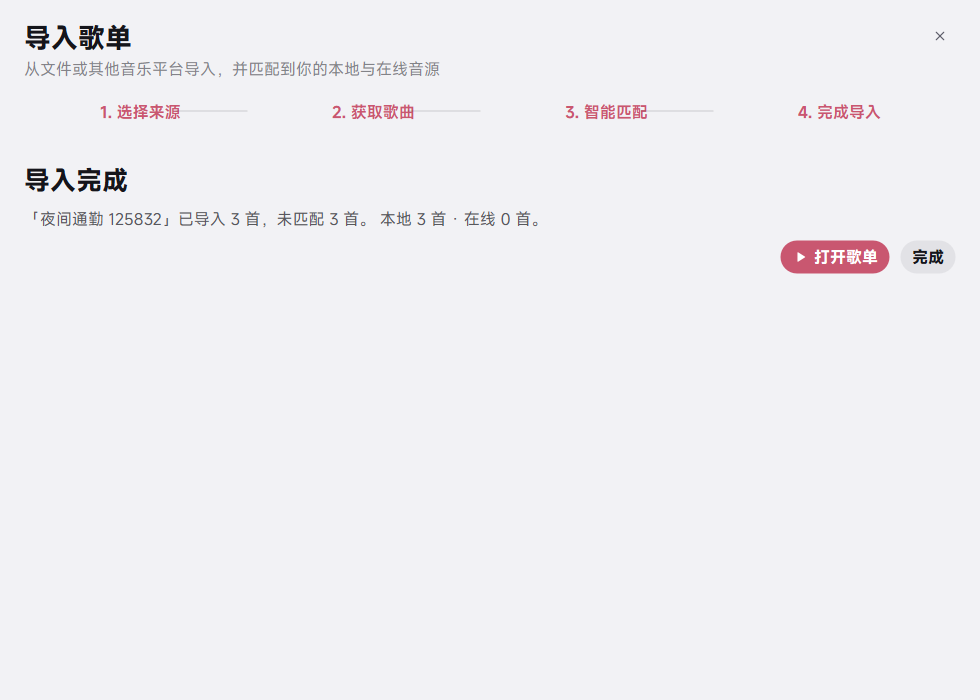
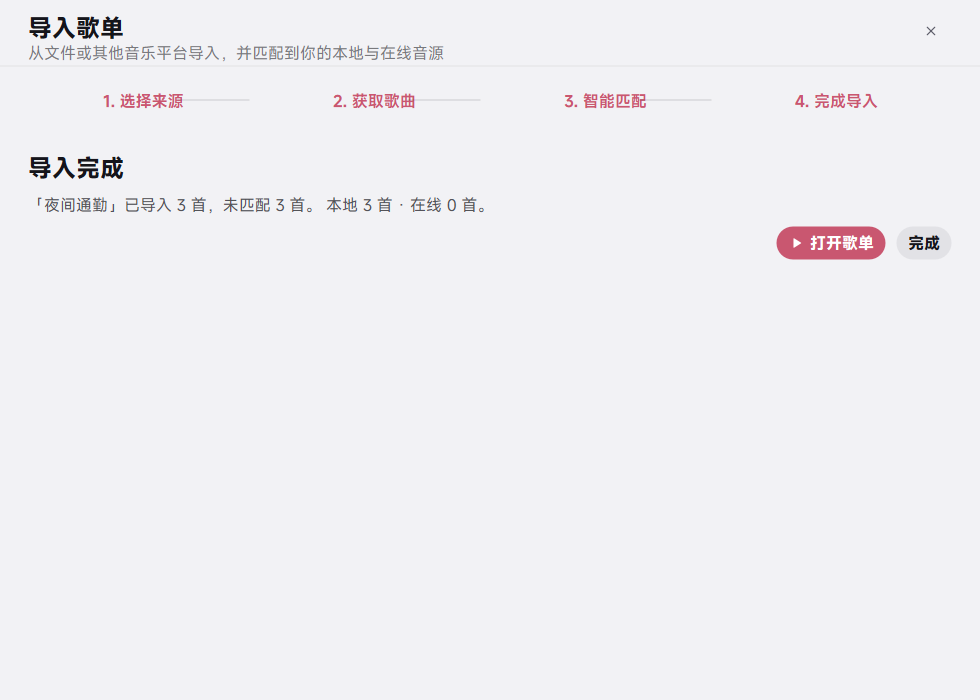
feat(1.2.7): 导入歌单对话框无边框自绘标题栏与统一字阶

diff --git a/hushplayer/ui/playlist_import_dialog.py b/hushplayer/ui/playlist_import_dialog.py
@@ -11,8 +11,8 @@ import time
 
 from pathlib import Path
 
-from PySide6.QtCore import QAbstractTableModel, QModelIndex, QPoint, QSize, Qt, QTimer, Signal
-from PySide6.QtGui import QColor, QPainter, QPen
+from PySide6.QtCore import QAbstractTableModel, QModelIndex, QPoint, QRectF, QSize, Qt, QTimer, Signal
+from PySide6.QtGui import QColor, QPainter, QPainterPath, QPen, QRegion
 from PySide6.QtWidgets import (
     QAbstractItemView,
     QApplication,
@@ -36,7 +36,7 @@ from PySide6.QtWidgets import (
 )
 
 from ..core.logging_setup import log_exception
-from ..core.theme import apply_native_title_bar, css_rgba, qcolor, rgba, theme
+from ..core.theme import css_rgba, qcolor, rgba, theme
 from ..model.track import format_duration
 from ..online import matching
 from ..services.playlist_import import PlaylistEntry, parse_playlist, parse_playlist_text
@@ -229,15 +229,91 @@ class _TableHeader(QWidget):
             align = Qt.AlignLeft if column in (1, 2) else Qt.AlignHCenter
             padding = theme().scaled(10, factor=0.6)
             rect = self.rect().adjusted(left + padding, 0, -(self.width() - left - width) - padding, 0)
-            painter.setPen(rgba(palette.text, 0.52))
+            painter.setPen(rgba(palette.text, 0.62))
             painter.drawText(rect, align | Qt.AlignVCenter, metrics.elidedText(text, Qt.ElideRight, max(10, width - padding * 2)))
-        painter.setPen(QPen(rgba(palette.text, 0.10), 1))
+        painter.setPen(QPen(rgba(palette.text, 0.12), 1))
         painter.drawLine(0, self.height() - 1, self.width(), self.height() - 1)
         painter.end()
 
 
 class _TableHeaderSpacer(QWidget):
     pass
+
+
+class _DialogTitleBar(QWidget):
+    """Self-drawn caption so the title lines up with the content padding.
+
+    The native Windows caption is inset ~8px and cannot be laid out, which made
+    the wizard look misaligned next to its 24px content margin.
+    """
+
+    PAD = 24
+
+    def __init__(self, title: str, subtitle: str, parent: QWidget | None = None) -> None:
+        super().__init__(parent)
+        self.setFixedHeight(theme().scaled(58, factor=0.8))
+        self.title_label = QLabel(title, self)
+        self.subtitle_label = QLabel(subtitle, self)
+        self.subtitle_label.setWordWrap(True)
+        self.setMouseTracking(True)
+        self._drag_offset: QPoint | None = None
+        self._close: QWidget | None = None
+
+    def attach_close(self, button: QWidget) -> None:
+        self._close = button
+        button.setParent(self)
+        button.raise_()
+        self._place_close()
+
+    def _place_close(self) -> None:
+        if self._close is None:
+            return
+        size = theme().scaled(32, factor=0.8)
+        pad = theme().scaled(self.PAD, factor=0.8)
+        top = (self.height() - size) // 2
+        self._close.setGeometry(self.width() - pad - size, top, size, size)
+
+    def resizeEvent(self, event) -> None:  # noqa: N802
+        super().resizeEvent(event)
+        pad = theme().scaled(self.PAD, factor=0.8)
+        top = theme().scaled(12, factor=0.8)
+        close_w = theme().scaled(32, factor=0.8)
+        right = self.width() - pad - close_w - theme().scaled(8, factor=0.6)
+        self.title_label.setGeometry(pad, top, max(120, right - pad), theme().scaled(24, factor=0.8))
+        self.subtitle_label.setGeometry(
+            pad,
+            top + theme().scaled(24, factor=0.8),
+            max(120, right - pad),
+            theme().scaled(18, factor=0.8),
+        )
+        self._place_close()
+
+    def paintEvent(self, event) -> None:  # noqa: N802
+        painter = QPainter(self)
+        painter.setRenderHint(QPainter.Antialiasing, True)
+        painter.fillRect(self.rect(), theme().palette.window)
+        painter.setPen(QPen(rgba(theme().palette.text, 0.08), 1))
+        painter.drawLine(0, self.height() - 1, self.width(), self.height() - 1)
+        painter.end()
+
+    def mousePressEvent(self, event) -> None:  # noqa: N802
+        if event.button() == Qt.MouseButton.LeftButton:
+            window = self.window()
+            handle = window.windowHandle()
+            if handle is not None and handle.startSystemMove():
+                self._drag_offset = None
+            else:
+                self._drag_offset = event.globalPosition().toPoint() - window.frameGeometry().topLeft()
+        super().mousePressEvent(event)
+
+    def mouseMoveEvent(self, event) -> None:  # noqa: N802
+        if self._drag_offset is not None and event.buttons() & Qt.MouseButton.LeftButton:
+            self.window().move(event.globalPosition().toPoint() - self._drag_offset)
+        super().mouseMoveEvent(event)
+
+    def mouseReleaseEvent(self, event) -> None:  # noqa: N802
+        self._drag_offset = None
+        super().mouseReleaseEvent(event)
 
 
 class PlaylistImportDialog(QDialog):
@@ -247,6 +323,7 @@ class PlaylistImportDialog(QDialog):
         super().__init__(parent)
         self.setWindowTitle("导入歌单")
         self.setModal(True)
+        self.setWindowFlag(Qt.WindowType.FramelessWindowHint, True)
         self.setMinimumSize(960, 640)
         self.resize(1040, 700)
         self._entries: list[PlaylistEntry] = []
@@ -261,35 +338,43 @@ class PlaylistImportDialog(QDialog):
 
     # ------------------------------------------------------------------ build
     def _build(self) -> None:
-        root = QVBoxLayout(self)
-        root.setContentsMargins(24, 20, 24, 18)
-        root.setSpacing(12)
+        pad = theme().scaled(_DialogTitleBar.PAD, factor=0.8)
 
-        header = QHBoxLayout()
-        titles = QVBoxLayout()
-        titles.setSpacing(2)
-        self.title_label = QLabel("导入歌单")
-        self.subtitle_label = QLabel("从文件或其他音乐平台导入，并匹配到你的本地与在线音源")
-        titles.addWidget(self.title_label)
-        titles.addWidget(self.subtitle_label)
-        header.addLayout(titles, 1)
+        root = QVBoxLayout(self)
+        root.setContentsMargins(0, 0, 0, 0)
+        root.setSpacing(0)
+
+        self.title_bar = _DialogTitleBar(
+            "导入歌单",
+            "从文件或其他音乐平台导入，并匹配到你的本地与在线音源",
+            self,
+        )
+        self.title_label = self.title_bar.title_label
+        self.subtitle_label = self.title_bar.subtitle_label
         self.close_button = IconButton("close", size=32, icon_size=16, tooltip="关闭")
         self.close_button.clicked.connect(self.reject)
-        header.addWidget(self.close_button, 0, Qt.AlignTop)
-        root.addLayout(header)
+        self.title_bar.attach_close(self.close_button)
+        root.addWidget(self.title_bar)
+
+        body = QWidget(self)
+        content = QVBoxLayout(body)
+        content.setContentsMargins(pad, theme().scaled(12, factor=0.8), pad, theme().scaled(18, factor=0.8))
+        content.setSpacing(12)
+        root.addWidget(body, 1)
 
         self.steps = _StepBar()
-        root.addWidget(self.steps)
+        content.addWidget(self.steps)
 
         self.stack = QStackedWidget()
         self.stack.addWidget(self._build_source_page())
         self.stack.addWidget(self._build_match_page())
         self.stack.addWidget(self._build_done_page())
-        root.addWidget(self.stack, 1)
+        content.addWidget(self.stack, 1)
 
         footer = QHBoxLayout()
         self.status_label = QLabel("")
         footer.addWidget(self.status_label, 1)
+        footer.addStretch(1)
         self.cancel_button = TextButton("取消", size=32)
         self.cancel_button.clicked.connect(self.reject)
         footer.addWidget(self.cancel_button)
@@ -303,7 +388,7 @@ class PlaylistImportDialog(QDialog):
         self.adopt_all.setVisible(False)
         footer.addWidget(self.adopt_all)
         footer.addWidget(self.next_button)
-        root.addLayout(footer)
+        content.addLayout(footer)
 
     def _build_source_page(self) -> QWidget:
         page = QWidget()
@@ -418,9 +503,11 @@ class PlaylistImportDialog(QDialog):
         frame_layout.addWidget(self.table, 1)
         layout.addWidget(self.table_frame, 1)
 
-        hint = QLabel("双击一行可换候选 / 手动搜索 / 跳过；只导入「本地」「在线已匹配」与「在线未验证」的行。")
-        hint.setWordWrap(True)
-        layout.addWidget(hint)
+        self.match_hint = QLabel(
+            "双击一行可换候选 / 手动搜索 / 跳过；只导入「本地」「在线已匹配」与「在线未验证」的行。"
+        )
+        self.match_hint.setWordWrap(True)
+        layout.addWidget(self.match_hint)
         return page
 
     def _build_done_page(self) -> QWidget:
@@ -448,7 +535,19 @@ class PlaylistImportDialog(QDialog):
     # ------------------------------------------------------------------ theme
     def showEvent(self, event) -> None:  # noqa: N802
         super().showEvent(event)
-        apply_native_title_bar(self)
+        self._apply_round_mask()
+
+    def resizeEvent(self, event) -> None:  # noqa: N802
+        super().resizeEvent(event)
+        self._apply_round_mask()
+
+    def _apply_round_mask(self) -> None:
+        """Frameless window: clip the corners ourselves (no translucent window)."""
+        radius = theme().scaled(14, factor=0.7)
+        path = QPainterPath()
+        path.addRoundedRect(QRectF(self.rect()), radius, radius)
+        region = QRegion(path.toFillPolygon().toPolygon())
+        self.setMask(region)
 
     def _apply_theme(self, *_args) -> None:
         palette = theme().palette
@@ -457,24 +556,27 @@ class PlaylistImportDialog(QDialog):
             f"QLabel {{ color: {palette.text}; }}"
         )
         self.title_label.setStyleSheet(
-            f"font-size:{theme().pt(17):.1f}pt; font-weight:700; color:{palette.text};"
+            f"font-size:{theme().pt(15):.1f}pt; font-weight:600; color:{palette.text};"
         )
         self.subtitle_label.setStyleSheet(
-            f"font-size:{theme().pt(9.4):.1f}pt; color:{css_rgba(palette.text, 0.5)};"
+            f"font-size:{theme().pt(9.4):.1f}pt; color:{css_rgba(palette.text, 0.55)};"
         )
-        self.file_hint.setStyleSheet(f"font-size:{theme().pt(9):.1f}pt; color:{css_rgba(palette.text, 0.45)};")
+        self.title_bar.update()
+        self._apply_round_mask()
+        self.file_hint.setStyleSheet(f"font-size:{theme().pt(9):.1f}pt; color:{css_rgba(palette.text, 0.5)};")
         self.source_info.setStyleSheet(f"font-size:{theme().pt(9.4):.1f}pt; color:{css_rgba(palette.text, 0.75)};")
-        self.source_hint.setStyleSheet(f"font-size:{theme().pt(8.8):.1f}pt; color:{css_rgba(palette.text, 0.45)};")
+        self.source_hint.setStyleSheet(f"font-size:{theme().pt(9):.1f}pt; color:{css_rgba(palette.text, 0.5)};")
         self.source_guide.setStyleSheet(
-            f"font-size:{theme().pt(9.4):.1f}pt; color:{css_rgba(palette.text, 0.38)};"
+            f"font-size:{theme().pt(9):.1f}pt; color:{css_rgba(palette.text, 0.42)};"
             f" padding: {theme().scaled(18, factor=0.8)}px {theme().scaled(22, factor=0.8)}px;"
             f" border: 1px dashed {css_rgba(palette.text, 0.16)};"
             f" border-radius: {theme().scaled(12, factor=0.6)}px;"
         )
         self.counts_label.setStyleSheet(f"font-size:{theme().pt(9):.1f}pt; color:{css_rgba(palette.text, 0.55)};")
+        self.match_hint.setStyleSheet(f"font-size:{theme().pt(9):.1f}pt; color:{css_rgba(palette.text, 0.5)};")
         self.status_label.setStyleSheet(f"font-size:{theme().pt(9):.1f}pt; color:{css_rgba(palette.text, 0.55)};")
-        self.done_title.setStyleSheet(f"font-size:{theme().pt(16):.1f}pt; font-weight:700; color:{palette.text};")
-        self.done_detail.setStyleSheet(f"font-size:{theme().pt(9.6):.1f}pt; color:{css_rgba(palette.text, 0.7)};")
+        self.done_title.setStyleSheet(f"font-size:{theme().pt(15):.1f}pt; font-weight:600; color:{palette.text};")
+        self.done_detail.setStyleSheet(f"font-size:{theme().pt(9.4):.1f}pt; color:{css_rgba(palette.text, 0.72)};")
         self.progress.setStyleSheet(
             f"QProgressBar {{ background:{css_rgba(palette.text, 0.10)}; border:none; border-radius:3px; }}"
             f"QProgressBar::chunk {{ background:{palette.accent}; border-radius:3px; }}"
@@ -485,7 +587,6 @@ class PlaylistImportDialog(QDialog):
             f" border: none; }}"
         )
         self._table_frame_inset = theme().scaled(1, factor=0.6)
-        apply_native_title_bar(self)
 
     # ------------------------------------------------------------------ flow
     @property

diff --git a/tests/test_playlist_dialog.py b/tests/test_playlist_dialog.py
@@ -163,18 +163,28 @@ def test_candidate_menu_opens_away_from_cursor(inline_context, qapp, monkeypatch
     assert anchor.y() >= 400 + 20
     assert not (580 <= anchor.x() <= 620)
 
-def test_dialog_matches_native_title_bar_to_theme(inline_context, qapp, monkeypatch) -> None:
-    import hushplayer.ui.playlist_import_dialog as module
+def test_dialog_uses_custom_caption_aligned_to_content(inline_context, qapp) -> None:
+    """自绘标题栏：无边框、标题与正文同一条 24px 左基线。"""
+    from PySide6.QtCore import Qt
+    from hushplayer.core.theme import theme
+    from hushplayer.ui.playlist_import_dialog import PlaylistImportDialog, _DialogTitleBar
 
-    calls: list[int] = []
-    monkeypatch.setattr(module, "apply_native_title_bar", lambda widget: calls.append(1))
-
-    dialog = module.PlaylistImportDialog()
+    dialog = PlaylistImportDialog()
+    dialog.resize(980, 700)
     dialog.show()
     qapp.processEvents()
-    dialog.close()
 
-    assert calls, "showEvent should sync the DWM title bar with the app theme"
+    assert dialog.windowFlags() & Qt.WindowType.FramelessWindowHint
+    assert dialog.windowTitle() == "导入歌单"
+    assert isinstance(dialog.title_bar, _DialogTitleBar)
+
+    pad = theme().scaled(_DialogTitleBar.PAD, factor=0.8)
+    assert dialog.title_bar.title_label.geometry().x() == pad
+    assert dialog.title_bar.subtitle_label.geometry().x() == pad
+    close_rect = dialog.close_button.geometry()
+    assert dialog.title_bar.width() - (close_rect.x() + close_rect.width()) == pad
+
+    dialog.close()
 
 
 def test_match_table_uses_custom_header(inline_context):

diff --git a/tools/probe_r80_import_dialog.py b/tools/probe_r80_import_dialog.py
@@ -81,7 +81,15 @@ def main() -> None:
     app.processEvents()
     dialog.grab().save(str(OUT / f"dialog_match_{mode}.png"))
 
-    dialog._go_next()
+    # stage 3: 完成页（跳过 _apply 的确认框，直接铺结果文案）
+    counts_now = dialog._matcher.counts()
+    dialog.done_detail.setText(
+        f"「夜间通勤」已导入 {counts_now['local']} 首，未匹配 {counts_now['unmatched']} 首。"
+        f" 本地 {counts_now['local']} 首 · 在线 {counts_now['online']} 首。"
+    )
+    dialog._set_stage(2)
+    app.processEvents()
+    time.sleep(0.1)
     app.processEvents()
     dialog.grab().save(str(OUT / f"dialog_done_{mode}.png"))
 

diff --git a/hushplayer/version.py b/hushplayer/version.py
@@ -4,7 +4,7 @@ from __future__ import annotations
 
 APP_NAME = "HushPlayer"
 APP_ID = "com.hushplayer.desktop"
-VERSION = "1.2.6"
+VERSION = "1.2.7"
 BUILD_CHANNEL = "stable"
 VERSION_TUPLE = tuple(int(part) for part in VERSION.split("."))
 

diff --git a/AGENTS.md b/AGENTS.md
@@ -177,4 +177,5 @@ HushPlayer-<ver>-setup.exe /VERYSILENT /LOG=...
 - 2026-10-23：1.2.3——① `PopupMenu._sub_hover` 在指针离开子菜单时必须清零，否则会出现「二级菜单外仍高亮子项」；② 原生标题栏窗口（QDialog）用 `core/theme.py:apply_native_title_bar()` + DWM 20/19 跟随主题，导入向导 `showEvent`/主题变更时调用；③ `_content_width()` 对无标题子菜单取空串，防 `horizontalAdvance(None)` 崩溃。
 - 2026-10-23：1.2.4——导入向导的匹配表改用**自绘表头**（`_TableHeader`）。原因：原生 `QHeaderView` 不吃对话框 QSS/调色板，浅色模式下会变成黑色横条；同时 `QColor("rgba(...)")` 是无效写法（会退化成纯黑），自绘取色一律用 `theme().rgba()`。以后凡是「表格 + 主题」场景，优先自绘表头，不要依赖 QHeaderView 配色。
 - 2026-10-23：1.2.5——匹配表包进圆角卡片（`QFrame#ImportTableFrame`，`palette.surface` + 10% 描边 + 12px 圆角），自绘表头只画文字与分隔线、不填底色。以后「表格进卡片」时，让容器负责背景与圆角，表头不要重复填色，否则会盖住圆角。
+- 2026-10-23：1.2.7——导入歌单对话框改为**无边框自绘标题栏**（_DialogTitleBar，24px 左基线对齐、拖动移动、Esc 关闭、#HushDialogRoot 圆角遮罩）；正文收成一套字阶（15pt/600 标题、9.4pt/0.75 主说明、9pt/0.55 计数、9pt/0.5 提示）；修自绘表头取色（QColor 不能吃 CSS rgba 字符串，否则变黑）；页脚按钮前加 addStretch 防拉伸。
 - 2026-10-23：1.2.6——新增「全黑」主题（`Palette(mode="pure")`，window/sidebar `#000000`，`_PALETTES` 三套并存，`is_dark` 把 pure 计入深色），主题选择器扩为四项并按宽度自适应瓦片；导入匹配表外框去掉（容器只留底色）。注意：`ThemePicker` 新增 API 后要 `grep "def set_value"` 确认没有重复定义（后定义会覆盖前者）；`QColor("rgba(...)")` 仍是无效写法。

diff --git a/CHANGELOG.md b/CHANGELOG.md
@@ -2,6 +2,19 @@
 
 本日志依据仓库中的 Git 提交、`hushplayer/version.py` 与构建产物整理。版本按发布时间从新到旧排列；同一版本的多条提交合并为一条，只写对使用者可见的变化。版本号 1.0.14 未单独发布，相关改动并入 1.0.15。
 
+## 1.2.7 — 2026-10-23
+
+### 修复
+- **导入歌单对话框改为无边框自绘标题栏**：标题「导入歌单」与正文统一 24px 左基线，副标题同基线；右上关闭按钮与内容右边缘对齐；支持拖动标题栏移动、Esc 关闭、圆角遮罩。
+- **正文排版统一**：15pt/600 页面标题、9.4pt/0.75 主说明、9pt/0.55 计数与状态、9pt/0.5 次要提示、表头 9.2pt/0.62；底部页脚按钮不再被拉伸（增加 addStretch 占位）。
+- **匹配表表头配色**：自绘表头改用 rgba(palette.text, 0.62)，修掉 QColor 接收 CSS rgba 字符串会退化成黑色、深色下表头不可见的问题；分隔线 alpha 0.12。
+
+### 验证
+- pytest：249 passed / 0 failed / 0 errors（artifacts/junit_1_2_7.xml，59.6s）。
+- 可运行产物：F:\HushPlayerBuild\out\HushPlayer 与 HushPlayer-1.2.7-win64.zip。
+- 截图：docs/screenshots/import_source_light.png、import_match_light.png、import_done_light.png 及对应 dark 三张。
+
+
 ## 1.2.6 - 2026-10-23
 
 ### 更新摘要
